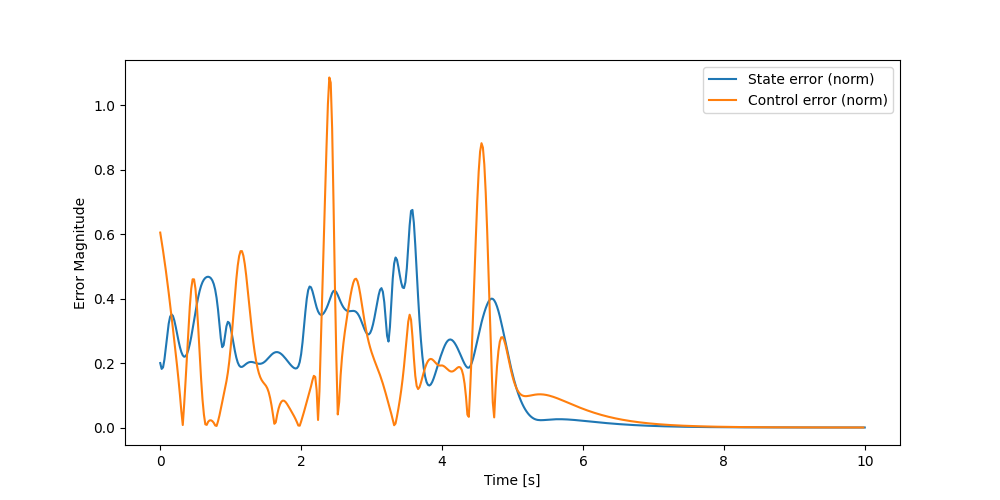
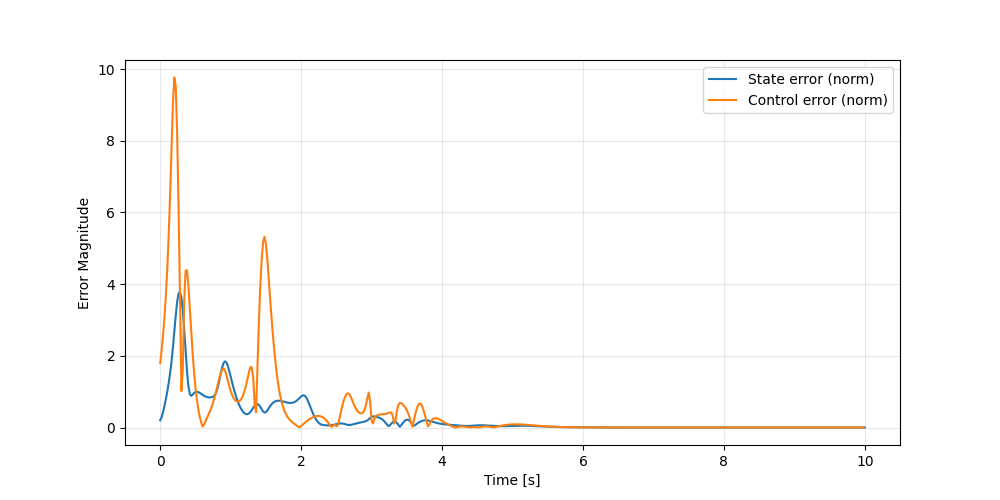
updated plots task 3&4

diff --git a/main.py b/main.py
@@ -151,7 +151,7 @@ def task_4():
     data = np.load("trajectories_npz/acrobot_optimal_trajectory.npz")
     x_ref, u_ref, t_ref = data["x"], data["u"], data["t"]
     
-    test_disturbances = [0.2, 0.3]
+    test_disturbances = [0.1, 0.3]
     
     # Actual initial state from the reference trajectory
     x0 = x_ref[0].copy()
@@ -178,19 +178,26 @@ def plot_tracking(x_ref, u_ref, x_opt, u_opt, t_ref, name="figures/unnamed"):
     # Trajectory tracking
     plt.figure(figsize=(20,10))
     plt.subplot(2,1,1)
-    plt.plot(t_ref, x_opt[:,0], label='theta1 (opt)')
-    plt.plot(t_ref, x_opt[:,1], label='theta2 (opt)')
-    plt.plot(t_ref, x_ref[:,0], '--', label='theta1 (ref)')
-    plt.plot(t_ref, x_ref[:,1], '--', label='theta2 (ref)')
-    plt.legend(); plt.ylabel('Angles [rad]')
+    # Plot velocities 
+    plt.plot(t_ref, x_opt[:,2], label='theta1 vel (opt)', linewidth=1.25, alpha=0.4, zorder=1)
+    plt.plot(t_ref, x_opt[:,3], label='theta2 vel (opt)', linewidth=1.25, alpha=0.4,  zorder=1)
+    plt.plot(t_ref, x_ref[:,2], '--', label='theta1 vel (ref)', linewidth=1.25, alpha=0.4, zorder=1)
+    plt.plot(t_ref, x_ref[:,3], '--', label='theta2 vel (ref)', linewidth=1.25, alpha=0.4,  zorder=1)
+    
+    # Plot theta1 and theta2 with prominent styling (higher z-order, brighter colors, thicker lines)
+    plt.plot(t_ref, x_opt[:,0], label='theta1 (opt)', linewidth=2., alpha=0.9, zorder=3)
+    plt.plot(t_ref, x_opt[:,1], label='theta2 (opt)', linewidth=2.,  alpha=0.9, zorder=3)
+    plt.plot(t_ref, x_ref[:,0], '--', label='theta1 (ref)', linewidth=2.,  alpha=0.7, zorder=2)
+    plt.plot(t_ref, x_ref[:,1], '--', label='theta2 (ref)', linewidth=2.,  alpha=0.7, zorder=2)
+    plt.legend(); plt.grid(True, alpha=0.3); plt.ylabel('Angles [rad]')
 
     plt.subplot(2,1,2)
-    plt.plot(t_control, u_opt[:,0], label='tau1 (opt)')
-    plt.plot(t_control, u_opt[:,1], label='tau2 (opt)')
-    plt.plot(t_control, u_ref[:,0], '--', label='tau1 (ref)')
-    plt.plot(t_control, u_ref[:,1], '--', label='tau2 (ref)')
-    plt.legend(); plt.xlabel('Time [s]'); plt.ylabel('Torque')
-    plt.tight_layout()
+    plt.plot(t_control, u_opt[:,0], label='tau1 (opt)', linewidth=2.)
+    plt.plot(t_control, u_opt[:,1], label='tau2 (opt)', linewidth=2.)
+    plt.plot(t_control, u_ref[:,0], '--', label='tau1 (ref)', linewidth=2.)
+    plt.plot(t_control, u_ref[:,1], '--', label='tau2 (ref)', linewidth=2.)
+    plt.legend(); plt.grid(True, alpha=0.3); plt.xlabel('Time [s]'); plt.ylabel('Torque')
+  
     plt.savefig(name + "_ref.png")
     
     # Norm error
@@ -198,7 +205,7 @@ def plot_tracking(x_ref, u_ref, x_opt, u_opt, t_ref, name="figures/unnamed"):
     plt.plot(t_ref, np.linalg.norm(x_opt - x_ref, axis=1), label='State error (norm)')
     control_error_padded = np.append(np.abs(u_opt[:, 1] - u_ref[:,1]), np.nan)
     plt.plot(t_ref, control_error_padded, label='Control error (norm)')
-    plt.xlabel('Time [s]'); plt.ylabel('Error Magnitude'); plt.legend()
+    plt.xlabel('Time [s]'); plt.grid(True, alpha=0.3); plt.ylabel('Error Magnitude'); plt.legend()
     
     plt.savefig(name + "_err.png")
     plt.show()
@@ -206,6 +213,6 @@ def plot_tracking(x_ref, u_ref, x_opt, u_opt, t_ref, name="figures/unnamed"):
 
 if __name__ == '__main__':
     
-    task_1()
+    task_4()
     
    

diff --git a/trajectory_generation.py b/trajectory_generation.py
@@ -13,9 +13,14 @@ nx = 4 #Dimension of state vector
 
 #   Cost Weights
 # Relaxed for tracking fully actuated reference with underactuated acrobot
-Q = np.diag([130.0, 30.0, 0.0001 , 0.0001])  
-R = np.diag([1e-6, 1.5])                  
-Q_T = np.diag([130, 130., 1., 1.0])  
+# Q = np.diag([130.0, 30.0, 0.0001 , 0.0001])  
+# R = np.diag([1e-6, 1.5])                  
+# Q_T = np.diag([130, 130., 1., 1.0])  
+
+Q = np.diag([10.0, 10.0, 0.0001 , 0.0001])  
+R = np.diag([1e-6, 0.01])                  
+Q_T = np.diag([20, 20., 1., 1.0])  
+
 
 def compute_equilibrium(u_target, theta_guess):
     #Equation yields G(theta1, theta2) = u_target
@@ -402,7 +407,7 @@ def generate_report_graphs(t_ref, x_ref, u_ref, x_opt, u_opt, history):
     else:
         u_ref_plot = u_ref
     # 1. Optimal Trajectory and Desired Curve
-    # Visualizes how well the optimized state tracks the reference [cite: 101]
+    # Visualizes how well the optimized state tracks the reference 
     plt.figure(figsize=(10, 8))
     plt.subplot(2, 1, 1)
     plt.plot(t_ref, x_opt[:, 0], 'b-', linewidth=2, label=r'$\theta_1$ (Optimal)')
@@ -431,8 +436,16 @@ def generate_report_graphs(t_ref, x_ref, u_ref, x_opt, u_opt, history):
     # 2. Intermediate Trajectories
     # Shows the evolution from initial guess to convergence [cite: 127]
     plt.figure(figsize=(10, 7))
-    iters_to_show = [0, 1, 2, 5, 10, len(history['x_trajs']) - 1]
-    iters_to_show = [i for i in iters_to_show if 0 <= i < len(history['x_trajs'])]
+    num_iters = len(history['x_trajs'])
+    
+    # Iterations to show
+    iters_to_show = [0, 1, 5, 10, 100]
+    iters_to_show = [i for i in iters_to_show if 0 <= i < num_iters]
+    # Add evenly spaced iterations 
+    num_evenly_spaced = 5
+    evenly_spaced = np.linspace(0, num_iters - 1, num_evenly_spaced, dtype=int).tolist()
+    # Combine and remove duplicates while preserving order
+    iters_to_show = sorted(list(set(iters_to_show + evenly_spaced)))
    
     # θ1
     plt.subplot(2, 1, 1)

diff --git a/trajectory_tracking.py b/trajectory_tracking.py
@@ -7,7 +7,7 @@ from scipy.linalg import solve_discrete_are
 
 def solve_mpc_tracking(x0, x_ref, u_ref, T):
     
-    T_hor = 100
+    T_hor = 30
     dt = 2e-2
     N = x_ref.shape[0]
     
@@ -85,7 +85,7 @@ def solver_mpc(x0, A_list, B_list, Q, R, Q_T, T_pred, u_ref = None):
       
     cost = 0
     
-    test_constraints = True
+    test_constraints = False
     
     if u_ref is not None and test_constraints:
         U_ref = ca.DM(u_ref).T
